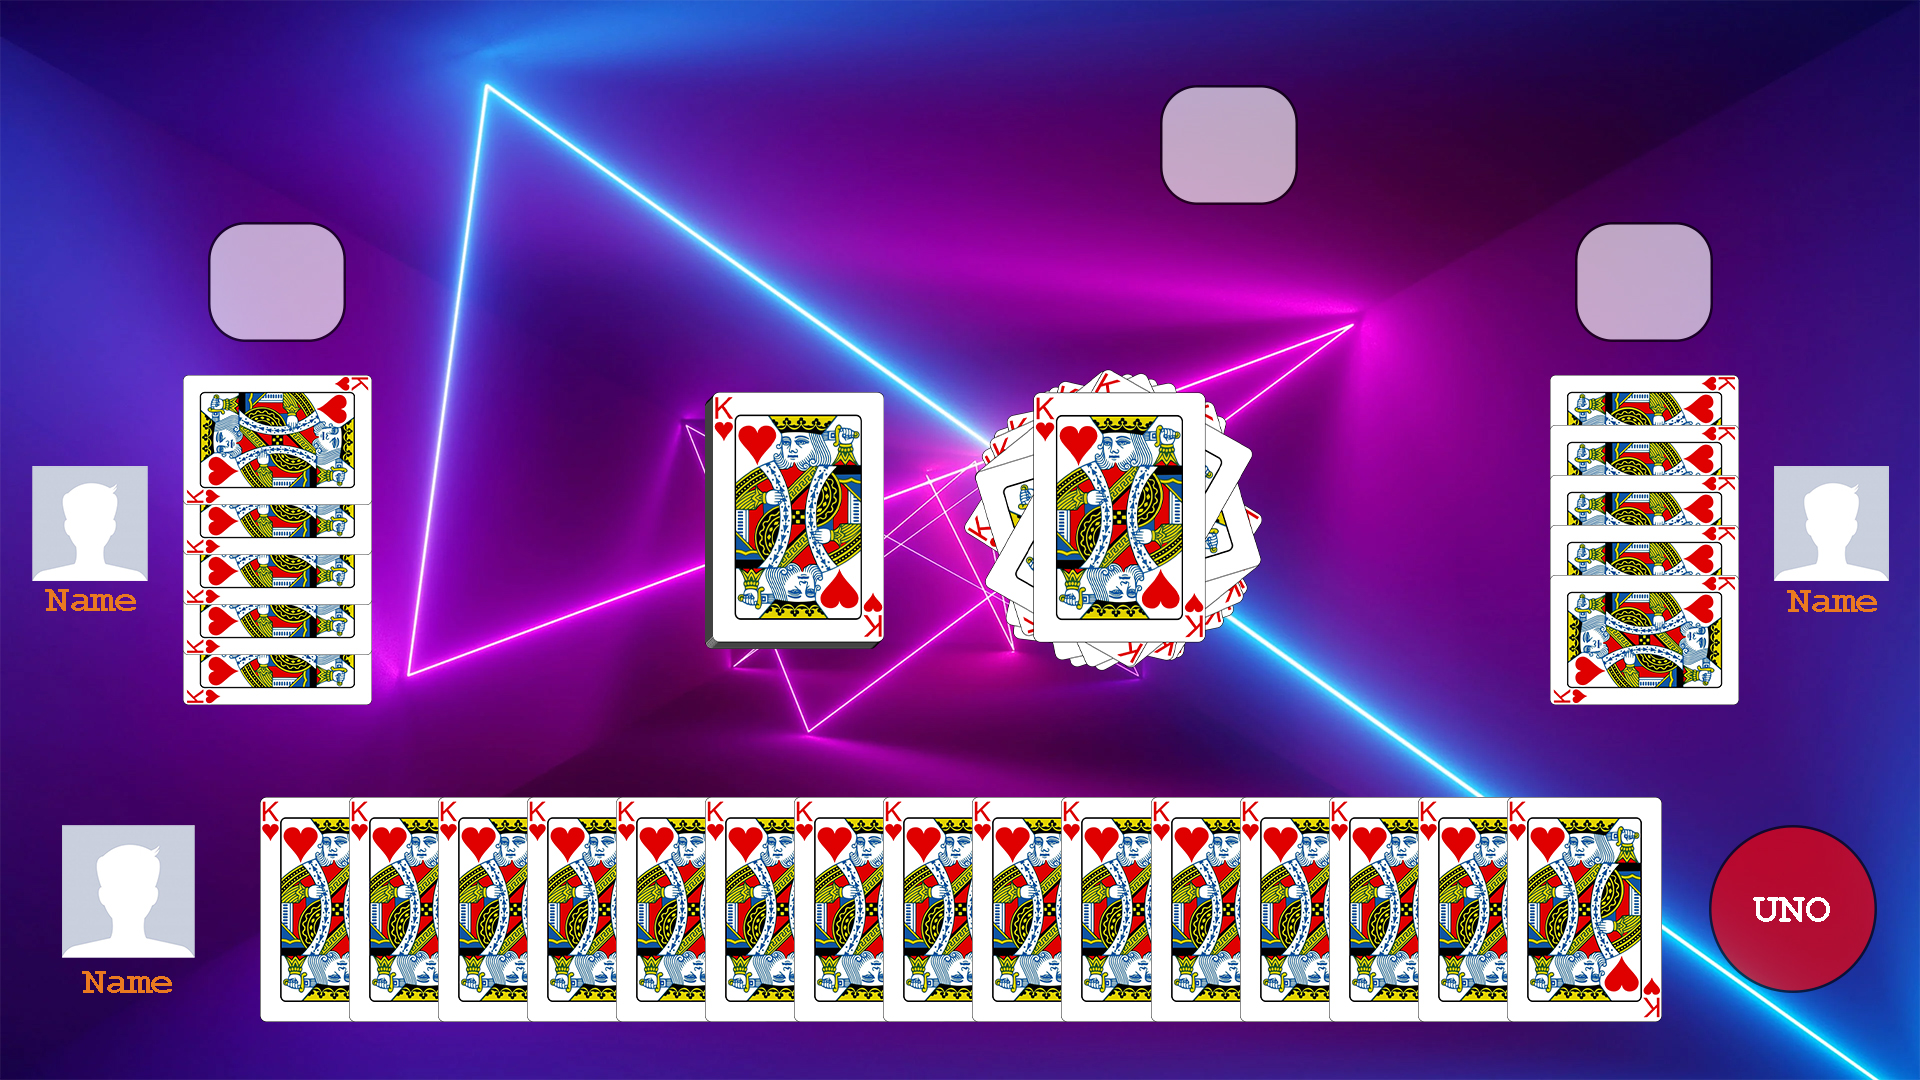
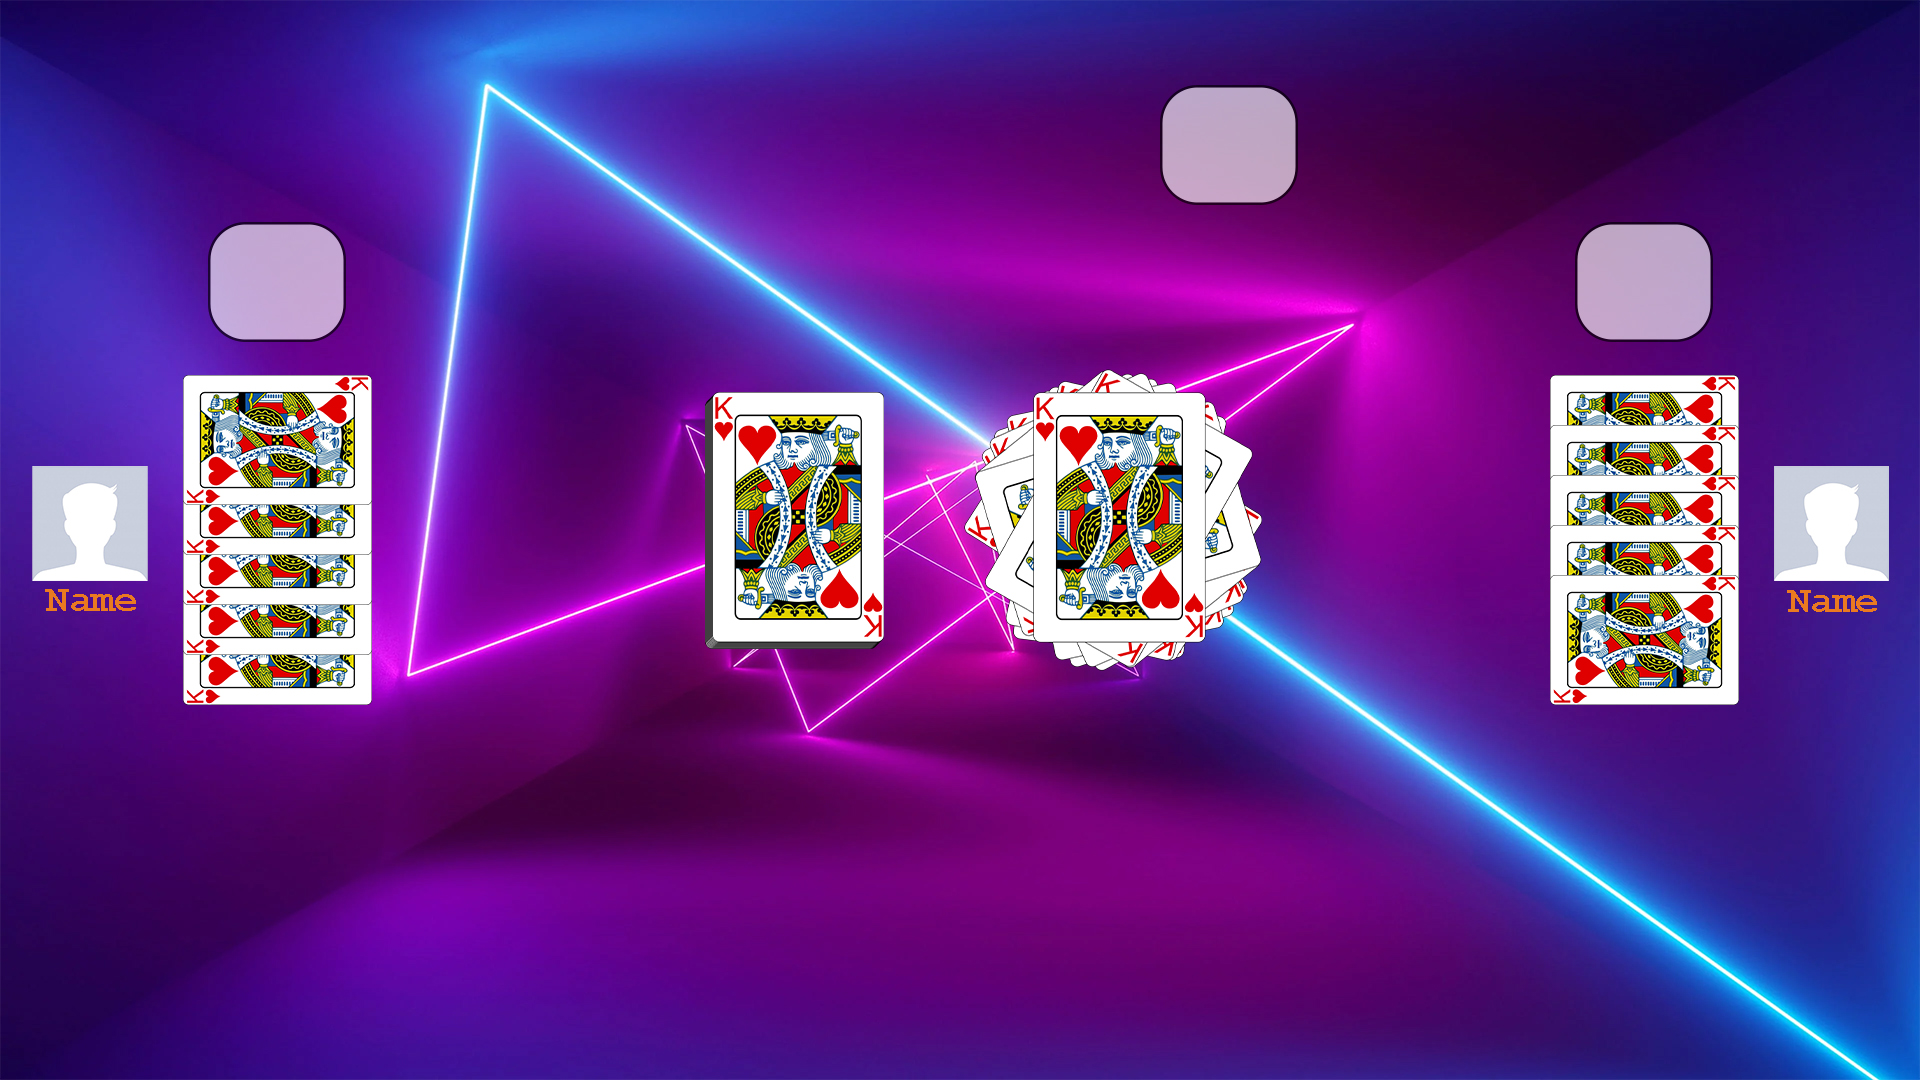
Top & bottom of game layout done

Changed region(s): [[0.0312, 0.7333, 1.0, 0.9472]]

diff --git a/main.py b/main.py
@@ -71,8 +71,8 @@ class MainWindow(QMainWindow):
         mainWindow.setWindowTitle('Kotahi')
         mainWindow.setWindowIcon(QIcon('./images/icon.png'))
         mainWindow.showFullScreen()
-
-        self.menu()
+#################self.menu()
+        self.game()
         sys.exit(app.exec_())
 
     def game(self):
@@ -91,7 +91,7 @@ class MainWindow(QMainWindow):
 
         game_layout = QGridLayout(background)
 
-        game_layout.setRowStretch(0, 45)
+        game_layout.setRowStretch(0, 47)
         game_layout.setRowStretch(1, 189)
         game_layout.setRowStretch(2, 18)
         game_layout.setRowStretch(3, 31)
@@ -99,7 +99,7 @@ class MainWindow(QMainWindow):
         game_layout.setRowStretch(5, 330)
         game_layout.setRowStretch(6, 92)
         game_layout.setRowStretch(7, 224)
-        game_layout.setRowStretch(8, 71)
+        game_layout.setRowStretch(8, 69)
 
         background.setLayout(game_layout)
 
@@ -274,6 +274,9 @@ class MainWindow(QMainWindow):
         bottomPart.setStyleSheet(".QWidget {border-image: none}")
         game_layout.addWidget(bottomPart, 7, 0)
         bottomLayout = QGridLayout(bottomPart)
+        bottomLayout.setContentsMargins(0, 0, 47, 0)
+        bottomLayout.setColumnStretch(1, 1402)
+        bottomLayout.setColumnStretch(2, 47)
 
         ##PLAYER NAME
         player = QWidget(topPart)
@@ -284,11 +287,11 @@ class MainWindow(QMainWindow):
 
         playerImage = QWidget(topPart)
         playerImage.setStyleSheet("border-image: url(./images/panda.png)")
-        playerImage.setFixedSize(115, 115)
+        playerImage.setFixedSize(133, 133)
         playerNameLayout.addWidget(playerImage, 1, 0)
 
         playerName = QLabel(topPart)
-        playerName.setText("Name")
+        playerName.setText("Diduška")
         playerName.setAlignment(Qt.AlignCenter)
         playerName.setStyleSheet(".QLabel {color: white; font: bold 32px} QWidget {border-image: none}")
         playerNameLayout.addWidget(playerName, 2, 0)
@@ -301,35 +304,49 @@ class MainWindow(QMainWindow):
         playerLayout = QGridLayout(playerCards)
         playerLayout.setContentsMargins(0, 0, 0, 0)
 
-        playerLayout.setRowStretch(0, 1401)
-
-        bot1Card1 = QWidget(topPart)
-        bot1Card1.setStyleSheet("border-image: url(./images/cardBackV.png)")
-        playerLayout.addWidget(bot1Card1, 0, 0)
-        bot1Card2 = QWidget(topPart)
-        bot1Card2.setStyleSheet("border-image: url(./images/cardBackV.png)")
-        playerLayout.addWidget(bot1Card2, 0, 1)
-        bot1Card3 = QWidget(topPart)
-        bot1Card3.setStyleSheet("border-image: url(./images/cardBackV.png)")
-        playerLayout.addWidget(bot1Card3, 0, 2)
-        bot1Card4 = QWidget(topPart)
-        bot1Card4.setStyleSheet("border-image: url(./images/cardBackV.png)")
-        playerLayout.addWidget(bot1Card4, 0, 3)
-        bot1Card5 = QWidget(topPart)
-        bot1Card5.setStyleSheet("border-image: url(./images/cardBackV.png)")
-        playerLayout.addWidget(bot1Card5, 0, 4)
+        playerCard1 = QPushButton(bottomPart)
+        playerCard1.setFixedSize(155, 225)
+        playerCard1.setStyleSheet("border-image: url(./images/cardBackV.png)")
+        playerCard1.setCursor(Qt.PointingHandCursor)
+        playerLayout.addWidget(playerCard1, 0, 0)
+        playerCard2 = QPushButton(bottomPart)
+        playerCard2.setFixedSize(155, 225)
+        playerCard2.setStyleSheet("border-image: url(./images/cardBackV.png)")
+        playerCard2.setCursor(Qt.PointingHandCursor)
+        playerLayout.addWidget(playerCard2, 0, 1)
+        playerCard3 = QPushButton(bottomPart)
+        playerCard3.setFixedSize(155, 225)
+        playerCard3.setStyleSheet("border-image: url(./images/cardBackV.png)")
+        playerCard3.setCursor(Qt.PointingHandCursor)
+        playerLayout.addWidget(playerCard3, 0, 2)
+        playerCard4 = QPushButton(bottomPart)
+        playerCard4.setFixedSize(155, 225)
+        playerCard4.setStyleSheet("border-image: url(./images/cardBackV.png)")
+        playerCard4.setCursor(Qt.PointingHandCursor)
+        playerLayout.addWidget(playerCard4, 0, 3)
+        playerCard5 = QPushButton(bottomPart)
+        playerCard5.setFixedSize(155, 225)
+        playerCard5.setStyleSheet("border-image: url(./images/cardBackV.png)")
+        playerCard5.setCursor(Qt.PointingHandCursor)
+        playerLayout.addWidget(playerCard5, 0, 4)
         ##
 
         kotahiFont = QFont("Arial", 24)
 
         kotahiButton = QPushButton(topPart)
-        kotahiButton.setText("KOTAHI")
         kotahiButton.setFixedSize(168, 168)
-        kotahiButton.setStyleSheet("border-image: none;" "border: 2px black;" "border-radius: 100%;" "background-color: rgba(255, 0, 0, 65);")
-        kotahiButton.setFont(kotahiFont)
+        kotahiButton.setStyleSheet("QWidget {border-image: none;" "border: 5px solid black;" "border-radius: 80%;" "background-color: rgba(255, 0, 0, 65)}")
         kotahiButton.setCursor(Qt.PointingHandCursor)
-        bottomLayout.addWidget(kotahiButton, 0, 2, alignment=Qt.AlignCenter)
+        bottomLayout.addWidget(kotahiButton, 0, 3, alignment=Qt.AlignCenter)
         kotahiButton.clicked.connect(self.menu)
+
+        kotahiText = QLabel(kotahiButton)
+        kotahiText.setText("KOTAHI")
+        kotahiText.setAlignment(Qt.AlignCenter)
+        kotahiText.setAttribute(Qt.WA_TransparentForMouseEvents)
+        kotahiText.setStyleSheet(".QLabel {color: white; font: 32px} QWidget {border-image: none}")
+        kotahiText.setFixedSize(168, 168)
+        bottomLayout.addWidget(kotahiText, 0, 3, alignment=Qt.AlignCenter)
 ##
 
         mainWindow.setCentralWidget(background)
